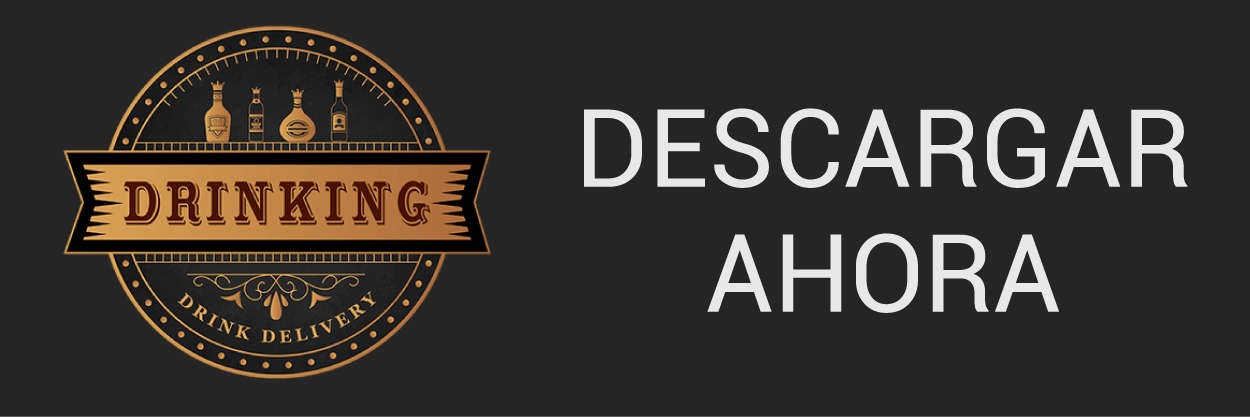
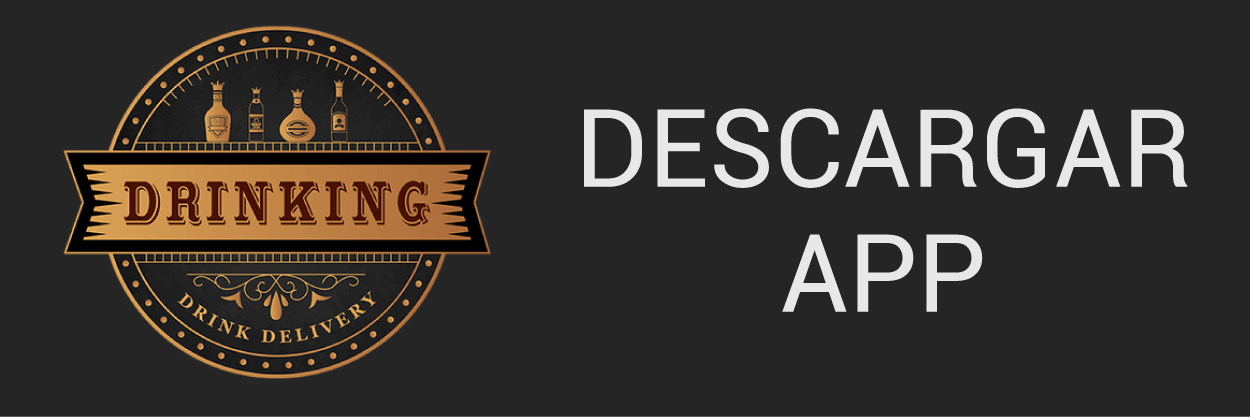
imgs

Changed region(s): [[0.5616, 0.5612, 0.8736, 0.7482]]

diff --git a/index.html b/index.html
@@ -53,15 +53,15 @@
                 <a class="footer_logo" href="#"><h1>DRINKING</h1></a>
                 <h4>Contacto</h4>
                 <p>Email: info@drinking.com</p>
-            </div>
-            <div class="footer_social">
-                <img id="descargar_footer" src="/img/drinking_boton.png" alt="Boton de descarga de Aplicacion Drinking">
                 <h4>Redes Sociales</h4>
                 <ul>
                     <li><a href="#" target="_blank"><i class="fa-brands fa-instagram"></i></a></li>
                     <li><a href="#" target="_blank"><i class="fa-brands fa-facebook"></i></a></li>
                     <li><a href="#" target="_blank"><i class="fa-brands fa-tiktok"></i></a></li>
                 </ul>
+            </div>
+            <div class="footer_descarga">
+                <img id="descargar_footer" src="/img/drinking_boton1.png" alt="Boton de descarga de Aplicacion Drinking">
             </div>
         </div>
         <div class="footer_reservado">
